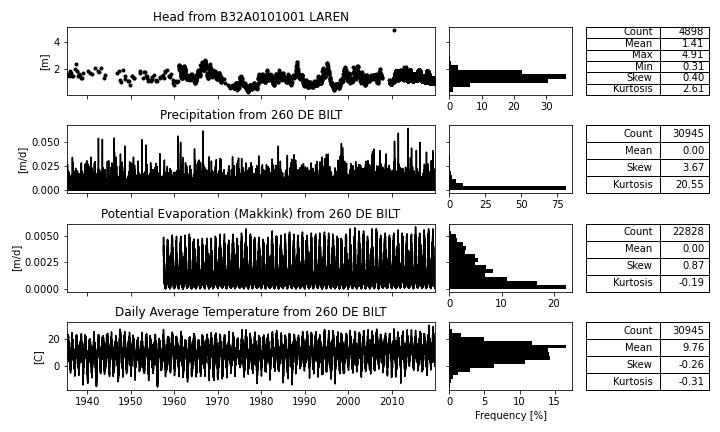
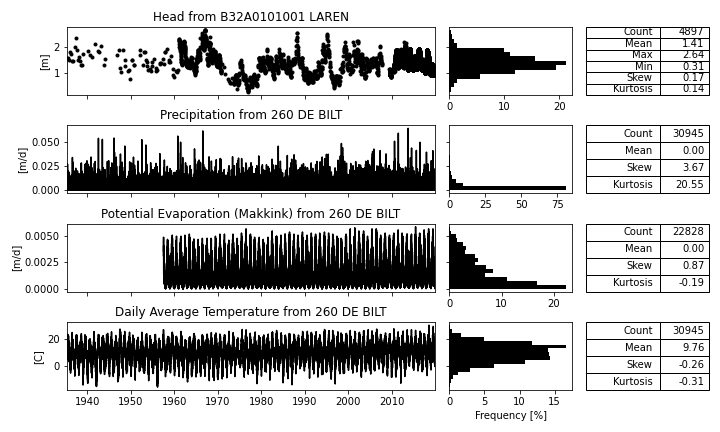
README and figure update

diff --git a/over_eighty_years/README.md b/over_eighty_years/README.md
@@ -2,7 +2,7 @@
 
 This dataset contains the data used in (Dutch) Stromingen article [Lessen uit lange grondwaterreeksen (Lessons from Long Groundwater Time Series)](https://www.nhv.nu/stroming/nieuws/stromingen_202102_artikel_verhagen/) - Floris Verhagen and Lisette Avis (2021). The head measurements are obtained from [DINOloket](https://www.dinoloket.nl/) and the meteorological data obtained from the [KNMI](https://www.knmi.nl/nederland-nu/klimatologie-metingen-en-waarnemingen). 
 
-The datasets have been read using the pastas functions read_knmi and read_dino using the associated fill options for nans. 
+The datasets have been read using the pastas functions read_knmi and read_dino using the associated fill options for nans. One outlier has been removed for B32A0101001 at 2010-06-07.
 
 Visualizations are available for the full duration of the six head time series. 
 
